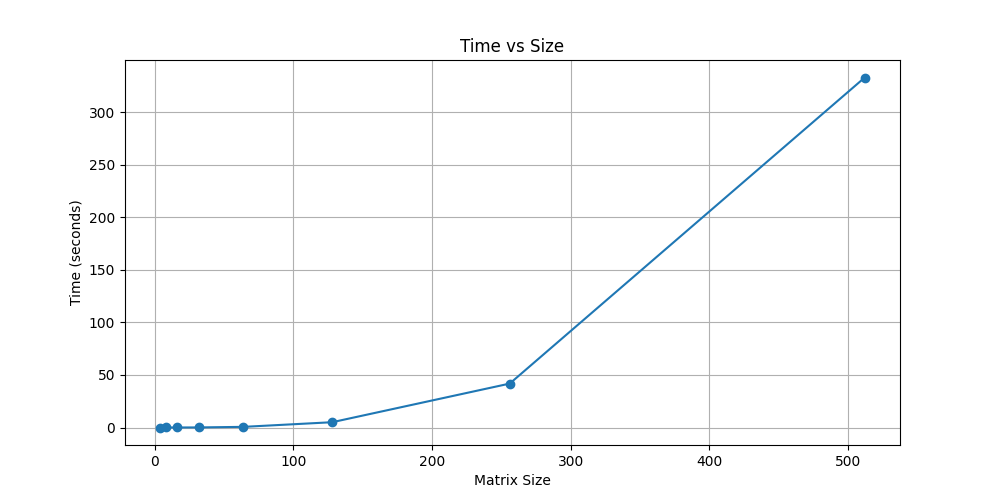
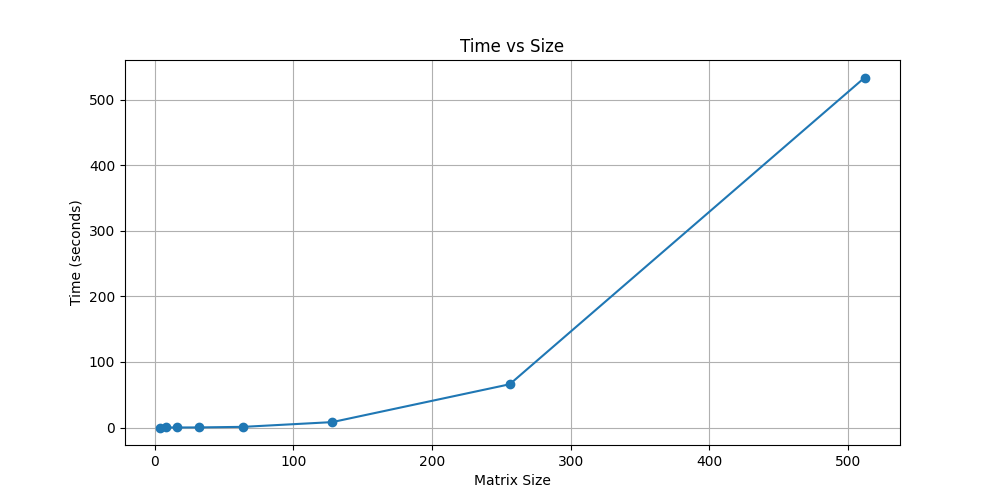
strassen

diff --git a/lab1/strassen.py b/lab1/strassen.py
@@ -1,19 +1,14 @@
 import numpy as np
 import math
 
-
-class BinetCalculationEngine():
-    __flops = 0
+class StrassenCalculationEngine:
+    __flops = 0 #  tracker for number of floating point operations
 
     def resetCounter(self):
         self.__flops = 0
 
     def getFlops(self):
         return self.__flops
-    
-    def __splitMatrix(self, M: np.ndarray):
-        n = M.shape[0] // 2
-        return M[:n, :n], M[:n, n:], M[n:, :n], M[n:, n:]
     
     def __adjustMatrixSize(self, M: np.ndarray):
         rows, cols = M.shape
@@ -32,24 +27,42 @@ class BinetCalculationEngine():
     def __removeExtraZeros(self, C: np.ndarray, original_rows: int, original_cols: int):
         return C[:original_rows, :original_cols]
     
-    def __recursiveMultiplyMatrices(self, A: np.ndarray, B: np.ndarray):
-        if A.shape == (1, 1):
-            self.__flops += 1 # flops for the multiplication
-            return A * B
+    def __splitMatrix(self, M: np.ndarray):
+        n = M.shape[0] // 2
+        return M[:n, :n], M[:n, n:], M[n:, :n], M[n:, n:]
+
+    def __defineAuxiliaryMatrices(self, A: np.ndarray, B: np.ndarray):
 
         A11, A12, A21, A22 = self.__splitMatrix(A)
         B11, B12, B21, B22 = self.__splitMatrix(B)
 
-        C1 = self.multiplyMatrices(A11, B11) + self.multiplyMatrices(A12, B21)
-        C2 = self.multiplyMatrices(A11, B12) + self.multiplyMatrices(A12, B22)
-        C3 = self.multiplyMatrices(A21, B11) + self.multiplyMatrices(A22, B21)
-        C4 = self.multiplyMatrices(A21, B12) + self.multiplyMatrices(A22, B22)
+        M1 = self.multiplyMatrices(A11 + A22, B11 + B22)
+        M2 = self.multiplyMatrices(A21 + A22, B11)
+        M3 = self.multiplyMatrices(A11, B12 - B22)
+        M4 = self.multiplyMatrices(A22, B21 - B11)
+        M5 = self.multiplyMatrices(A11 + A12, B22)
+        M6 = self.multiplyMatrices(A21 - A11, B11 + B12)
+        M7 = self.multiplyMatrices(A12 - A22, B21 + B22)
 
-        self.__flops += 4 * math.prod(A.shape) # flops for the sums
+
+        return M1, M2, M3, M4, M5, M6, M7
+
+    def __recursiveMultiplyMatrices(self, A: np.ndarray, B: np.ndarray):
+
+        if A.shape == (1, 1):
+            #self.__flops += 1 
+            return A * B
+        
+        M1, M2, M3, M4, M5, M6, M7 = self.__defineAuxiliaryMatrices(A, B)
+        
+        C1 = M1 + M4 - M5 + M7
+        C2 = M3 + M5
+        C3 = M2 + M4
+        C4 = M1 - M2 + M3 + M6
+
 
         return np.vstack((np.hstack((C1, C2)), np.hstack((C3, C4))))
     
-
     def multiplyMatrices(self, A: np.ndarray, B: np.ndarray):
 
         original_rows_A, original_cols_A = A.shape
@@ -58,6 +71,7 @@ class BinetCalculationEngine():
         if original_cols_A != original_rows_B:
             raise ValueError("Number of columns in matrix A must be equal to the number of rows in matrix B.")
 
+        
         if A.shape != B.shape:
             rows, cols = A.shape
             if rows != cols or not (rows & (rows - 1) == 0):
@@ -67,7 +81,6 @@ class BinetCalculationEngine():
         C = self.__recursiveMultiplyMatrices(A, B)
 
         return self.__removeExtraZeros(C, original_rows_A, original_cols_B)
-    # multiplies matrices using recursive binet method 
-
-
+    
+    
     

diff --git a/lab1/test.py b/lab1/test.py
@@ -1,10 +1,13 @@
 # binet
-from binet import BinetCalculationEngine 
+from binet import BinetCalculationEngine
+from strassen import StrassenCalculationEngine
 import numpy as np  
 
-A = np.array([[1,3], [2,4]])
-B = np.array([[-5,8], [3,9]])
+A = np.array([[1,3,2], [2,4,2]])
+B = np.array([[-5,8], [3,9],[3, 7]])
 
 matrix = BinetCalculationEngine().multiplyMatrices(A, B)
 print(matrix)
 
+matrix2 = StrassenCalculationEngine().multiplyMatrices(A, B)
+print(matrix2)

diff --git a/lab1/index.py b/lab1/index.py
@@ -1,6 +1,10 @@
 # binet
 from binet import BinetCalculationEngine 
+from strassen import StrassenCalculationEngine
 from analytics import * 
 
 analyticsArr = getAnalyticsArr(BinetCalculationEngine)
 plotAnalytics(analyticsArr, "./lab1/img/binet")
+
+analyticsArr = getAnalyticsArr(StrassenCalculationEngine)
+plotAnalytics(analyticsArr, "./lab1/img/strassen")
